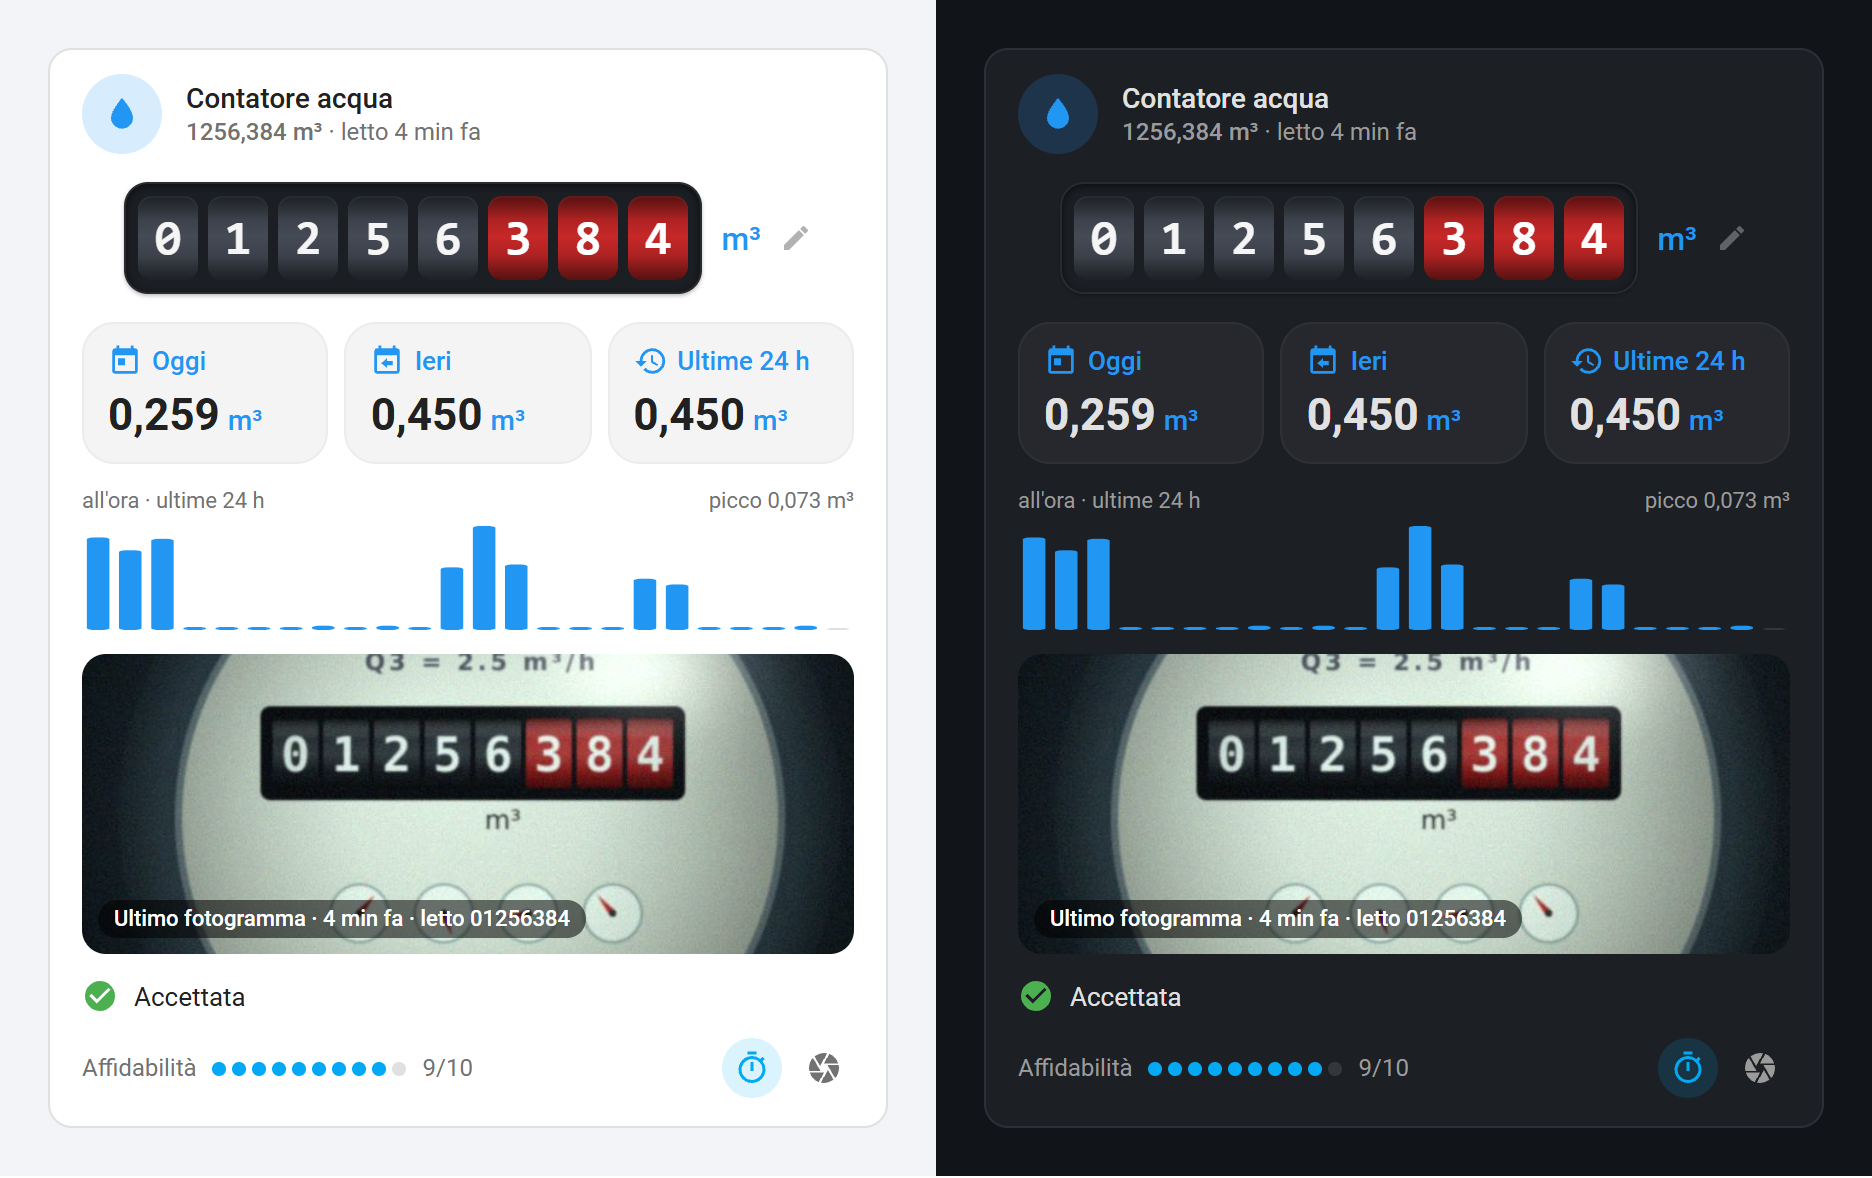
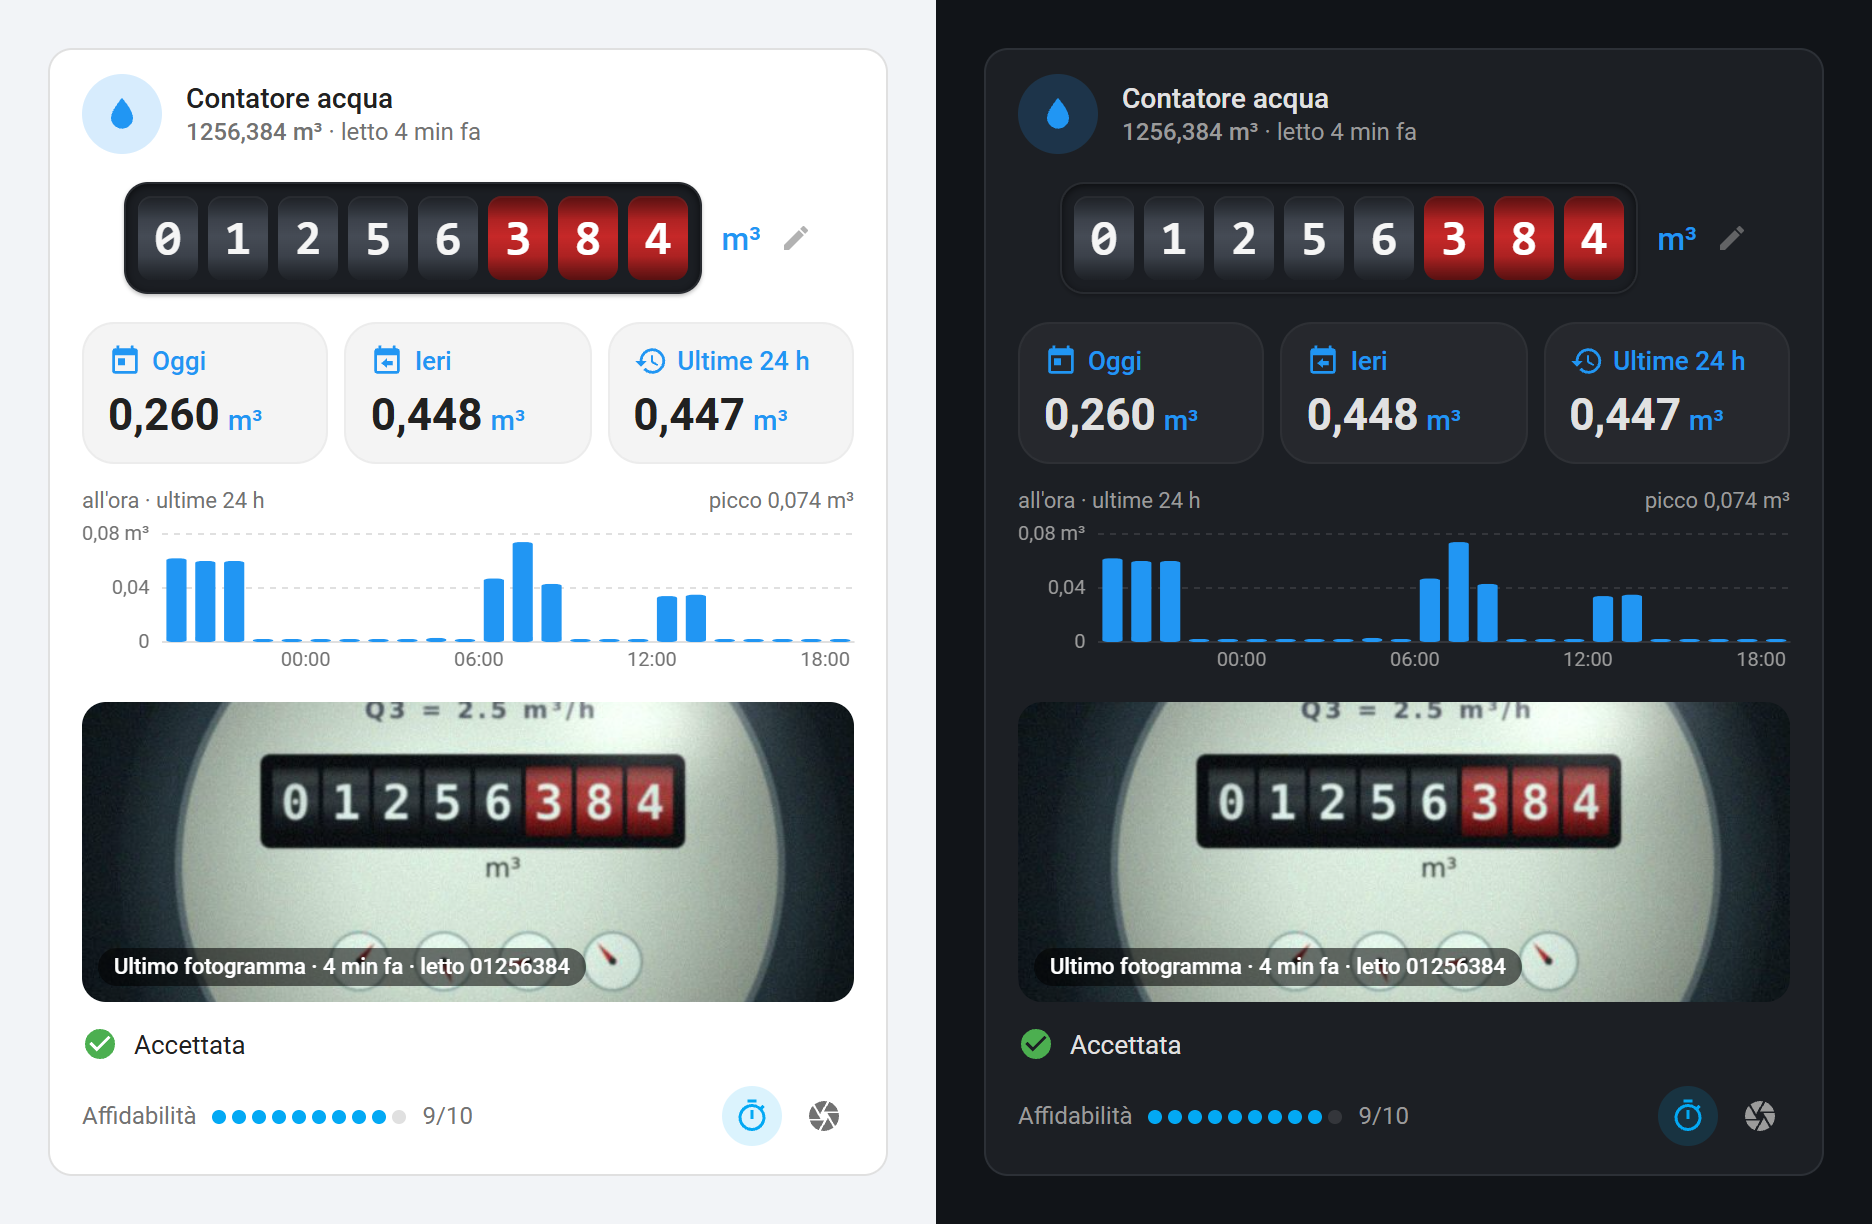
Release 1.2.0
The hourly chart of the card gets axes: consumption per hour and hours.

diff --git a/custom_components/ai_meter_reader/frontend/ai-meter-reader-card.js b/custom_components/ai_meter_reader/frontend/ai-meter-reader-card.js
@@ -304,8 +304,15 @@ ha-card{padding:12px 16px 14px;box-sizing:border-box;height:100%}
 @media (prefers-reduced-motion:reduce){.strip{transition:none}}
 .chart{margin-top:12px;cursor:pointer}
 .chartcap{display:flex;justify-content:space-between;font-size:11px;color:var(--secondary-text-color);margin-bottom:4px}
+.plot{display:grid;grid-template-columns:auto 1fr;column-gap:6px;padding-top:6px}
+.yax{position:relative;height:54px;min-width:14px}
+.yax span,.xax span{position:absolute;font-size:10px;line-height:1;color:var(--secondary-text-color);white-space:nowrap;font-variant-numeric:tabular-nums}
+.yax span{right:0;transform:translateY(-50%)}
+.yax i{display:block;visibility:hidden;height:0;font-size:10px;font-style:normal;white-space:nowrap;font-variant-numeric:tabular-nums}
 .bars{height:54px}
-.bars svg{width:100%;height:100%;display:block}
+.bars svg{width:100%;height:100%;display:block;overflow:visible}
+.xax{position:relative;grid-column:2;height:14px;margin-top:4px}
+.xax span{top:0;transform:translateX(-50%)}
 .frame{position:relative;margin-top:12px;cursor:pointer}
 .frame img{display:block;width:100%;max-height:150px;object-fit:cover;border-radius:12px;background:var(--secondary-background-color)}
 .frame.expand img{max-height:none;object-fit:contain}
@@ -447,7 +454,7 @@ class AiMeterReaderCard extends HTMLElement {
         </div>
         <div class="chart" id="chart" hidden>
           <div class="chartcap"><span id="chartl"></span><span id="chartr"></span></div>
-          <div class="bars" id="bars"></div>
+          <div class="plot"><div class="yax" id="yax"></div><div class="bars" id="bars"></div><div class="xax" id="xax"></div></div>
         </div>
         <div class="frame" id="frame" hidden><img id="img" alt="" /><div class="cap" id="cap"></div></div>
         <div class="result" id="result" hidden>
@@ -556,16 +563,35 @@ class AiMeterReaderCard extends HTMLElement {
       bars.push({ at: a, v: pts.length && pts[0][0] <= b ? consumption(pts, a, b) : null });
     }
     const max = Math.max(0, ...bars.map((x) => x.v || 0));
+    // Round top of the y axis (1, 2, 4, 6, 8 x 10^n) so that its half is round too.
+    const mag = max > 0 ? Math.pow(10, Math.floor(Math.log10(max))) : 1;
+    const top = max > 0 ? [1, 2, 4, 6, 8, 10].find((m) => m * mag >= max * (1 - 1e-9)) * mag : 0;
+    const tickDec = top > 0 ? Math.max(0, Math.ceil(-Math.log10(top / 2) - 1e-9)) : 0;
     r.getElementById("chartr").textContent = max > 0 ? this._t("peak", { v: this._fmtUse(max, decimals) + " " + unit }) :
       (pts.length < 2 ? this._t("no_data") : "");
     const w = 100 / 24;
     const rects = bars.map((x, i) => {
-      const h = max > 0 && x.v ? Math.max(1.5, (x.v / max) * 52) : 0;
+      const h = top > 0 && x.v ? Math.max(1.5, (x.v / top) * 54) : 0;
       const hour = new Date(x.at).toLocaleTimeString(langOf(this._hass), { hour: "2-digit", minute: "2-digit" });
       const tip = `${hour} ${MID} ${x.v === null ? DASH : this._fmtUse(x.v, decimals) + " " + unit}`;
       return `<rect x="${(i * w + w * 0.15).toFixed(2)}" y="${(54 - Math.max(h, 1)).toFixed(2)}" width="${(w * 0.7).toFixed(2)}" height="${Math.max(h, 1).toFixed(2)}" rx="1" fill="${h ? color : "var(--divider-color)"}"><title>${tip}</title></rect>`;
     });
-    r.getElementById("bars").innerHTML = `<svg viewBox="0 0 100 54" preserveAspectRatio="none">${rects.join("")}</svg>`;
+    const grid = top > 0 ? [0, 27, 54].map((y) =>
+      `<line x1="0" x2="100" y1="${y}" y2="${y}" stroke="var(--divider-color)" stroke-dasharray="${y === 54 ? "none" : "3 3"}" vector-effect="non-scaling-stroke"/>`).join("") : "";
+    r.getElementById("bars").innerHTML = `<svg viewBox="0 0 100 54" preserveAspectRatio="none">${grid}${rects.join("")}</svg>`;
+    // The hidden <i> gives the axis the width of its longest label (the top one, with the unit).
+    const ticks = [[top, 0], [top / 2, 50], [0, 100]].map(([v, y]) => [`${this._fmt(v, v ? tickDec : 0)}${y ? "" : " " + unit}`, y]);
+    r.getElementById("yax").innerHTML = top > 0 ?
+      `<i>${ticks[0][0]}</i>` + ticks.map(([label, y]) => `<span style="top:${y}%">${label}</span>`).join("") : "";
+    // Hour labels at the hour boundaries that are multiples of 6 (00, 06, 12, 18).
+    r.getElementById("xax").innerHTML = bars.map((x, i) => {
+      if (new Date(x.at).getHours() % 6 || i === 0) return "";
+      // "6 PM" where the locale uses a 12-hour clock, "18:00" otherwise.
+      const d = new Date(x.at), lang = langOf(this._hass);
+      const short = d.toLocaleTimeString(lang, { hour: "numeric" });
+      const hour = /^\d+$/.test(short) ? d.toLocaleTimeString(lang, { hour: "2-digit", minute: "2-digit" }) : short;
+      return `<span style="left:${(i * w).toFixed(2)}%">${hour}</span>`;
+    }).join("");
   }
 
   _updateCounter(value, a, unit) {

diff --git a/README.md b/README.md
@@ -117,7 +117,7 @@ restart.
 | `name` | device name | Card title. |
 | `show_counter` | `true` | The reading drawn as a meter counter; decimal digits in red. Tap it to correct the reading. |
 | `show_consumption` | `true` | Consumption of today, yesterday and the last 24 hours. |
-| `show_chart` | `true` | Hourly consumption of the last 24 hours. |
+| `show_chart` | `true` | Hourly consumption of the last 24 hours, with the consumption per hour and the hours on the axes. |
 | `show_frame` | `true` | The last frame sent to the AI, with the digits it read. Tap to expand. |
 | `show_result` | `true` | The result of the last reading and its confidence. |
 | `show_buttons` | `true` | Read now, and automatic reading on/off. |

diff --git a/CHANGELOG.md b/CHANGELOG.md
@@ -6,6 +6,13 @@ All notable changes to this project are documented here. The format follows
 
 ## [Unreleased]
 
+## [1.2.0] - 2026-11-21
+
+### Added
+
+- The hourly chart of the card has axes: consumption per hour on the left (zero, half and a round top value,
+  with the unit) and the hours along the bottom every 6 hours, in the 12- or 24-hour format of the language.
+
 ## [1.1.0] - 2026-11-21
 
 ### Added
